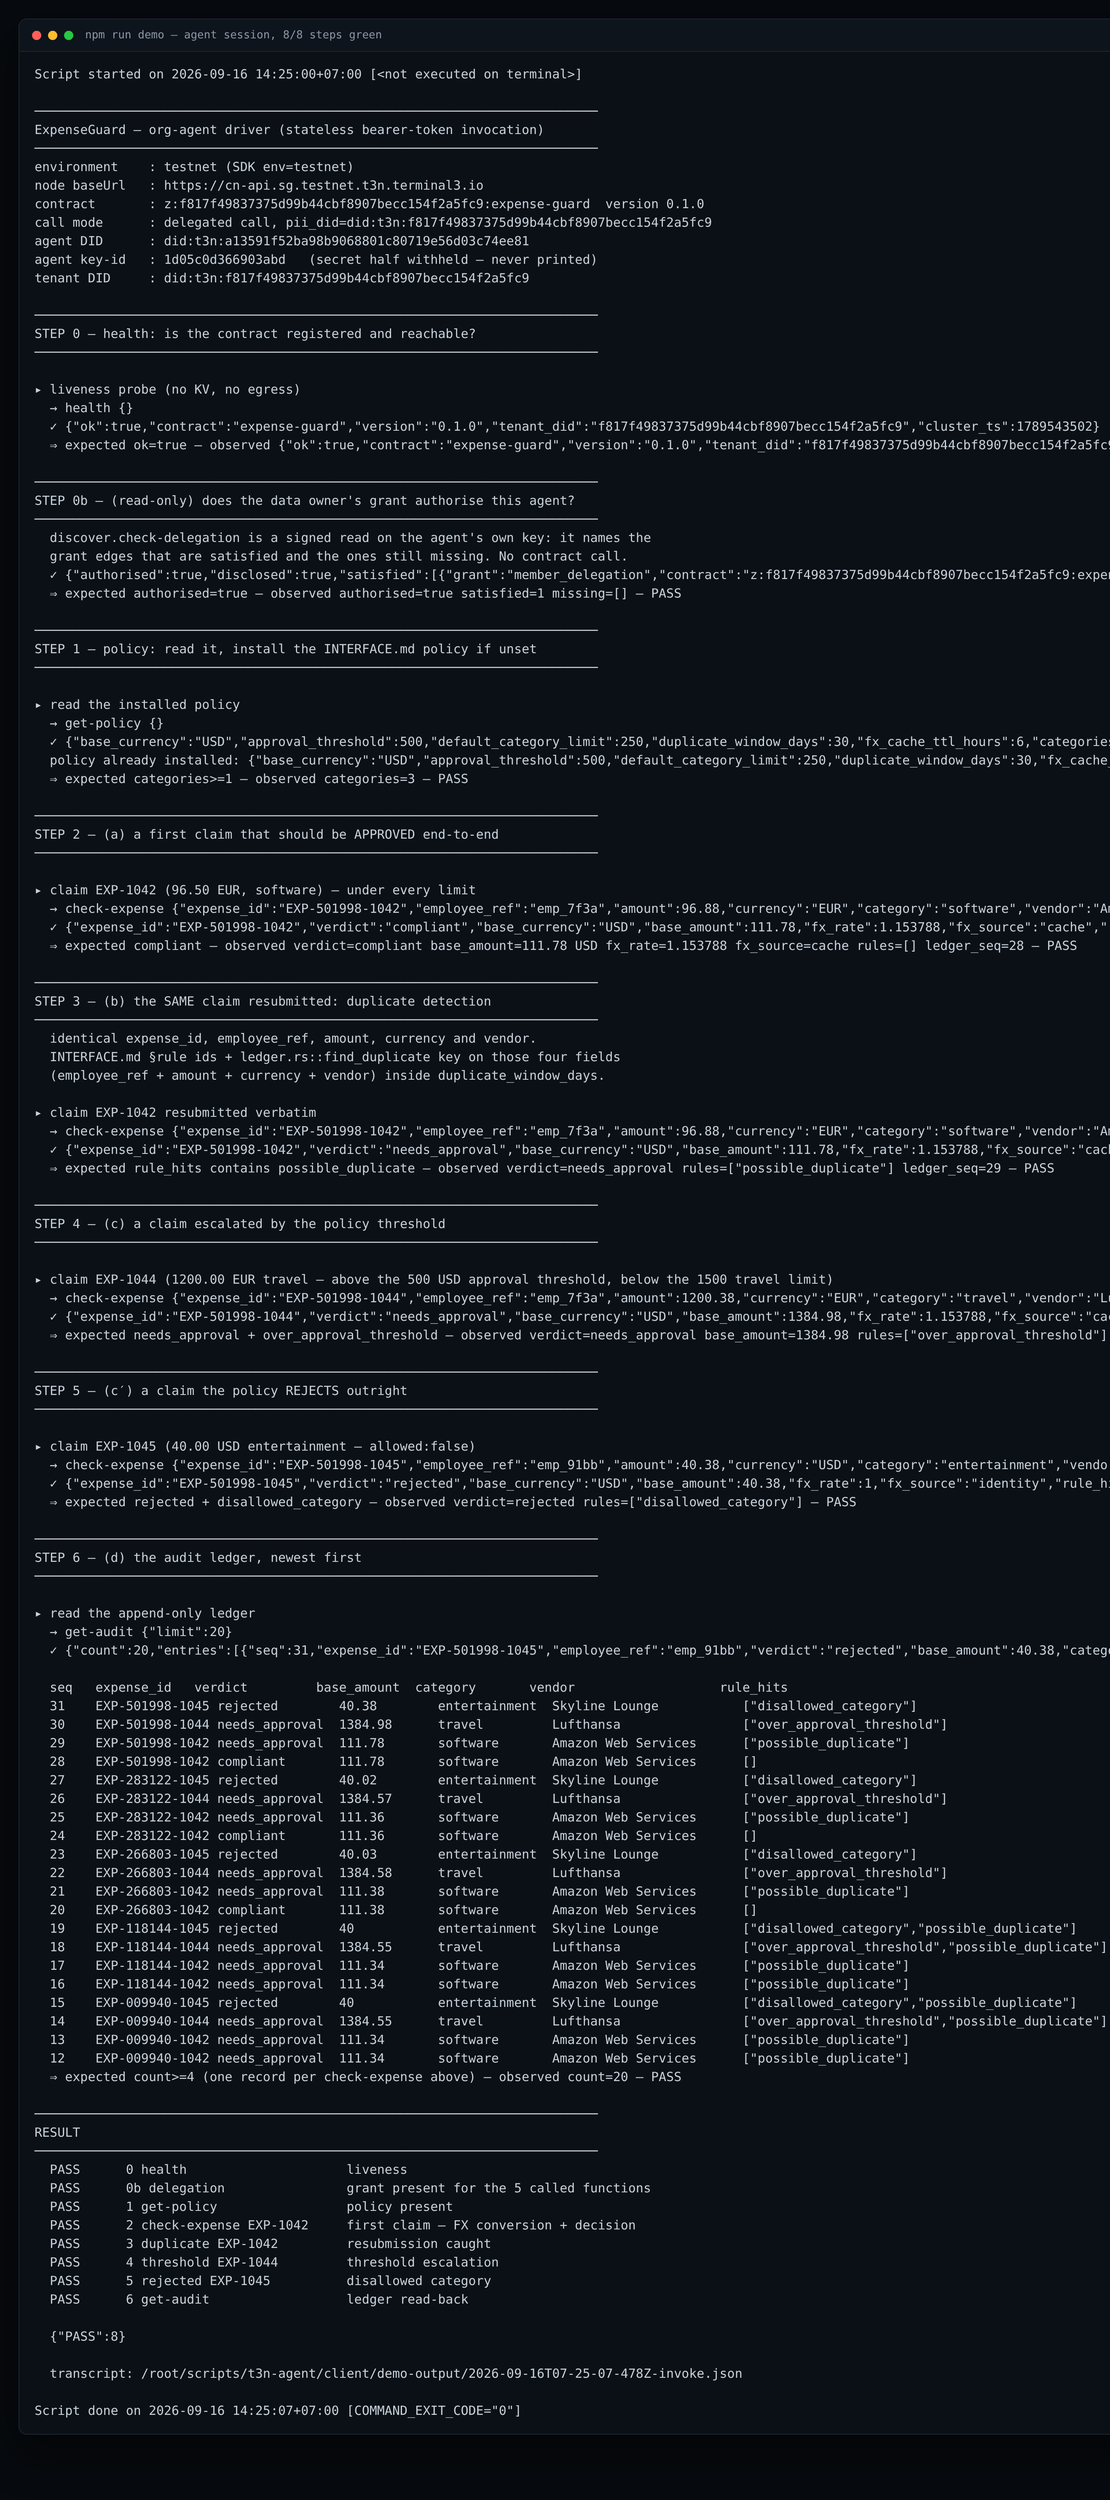
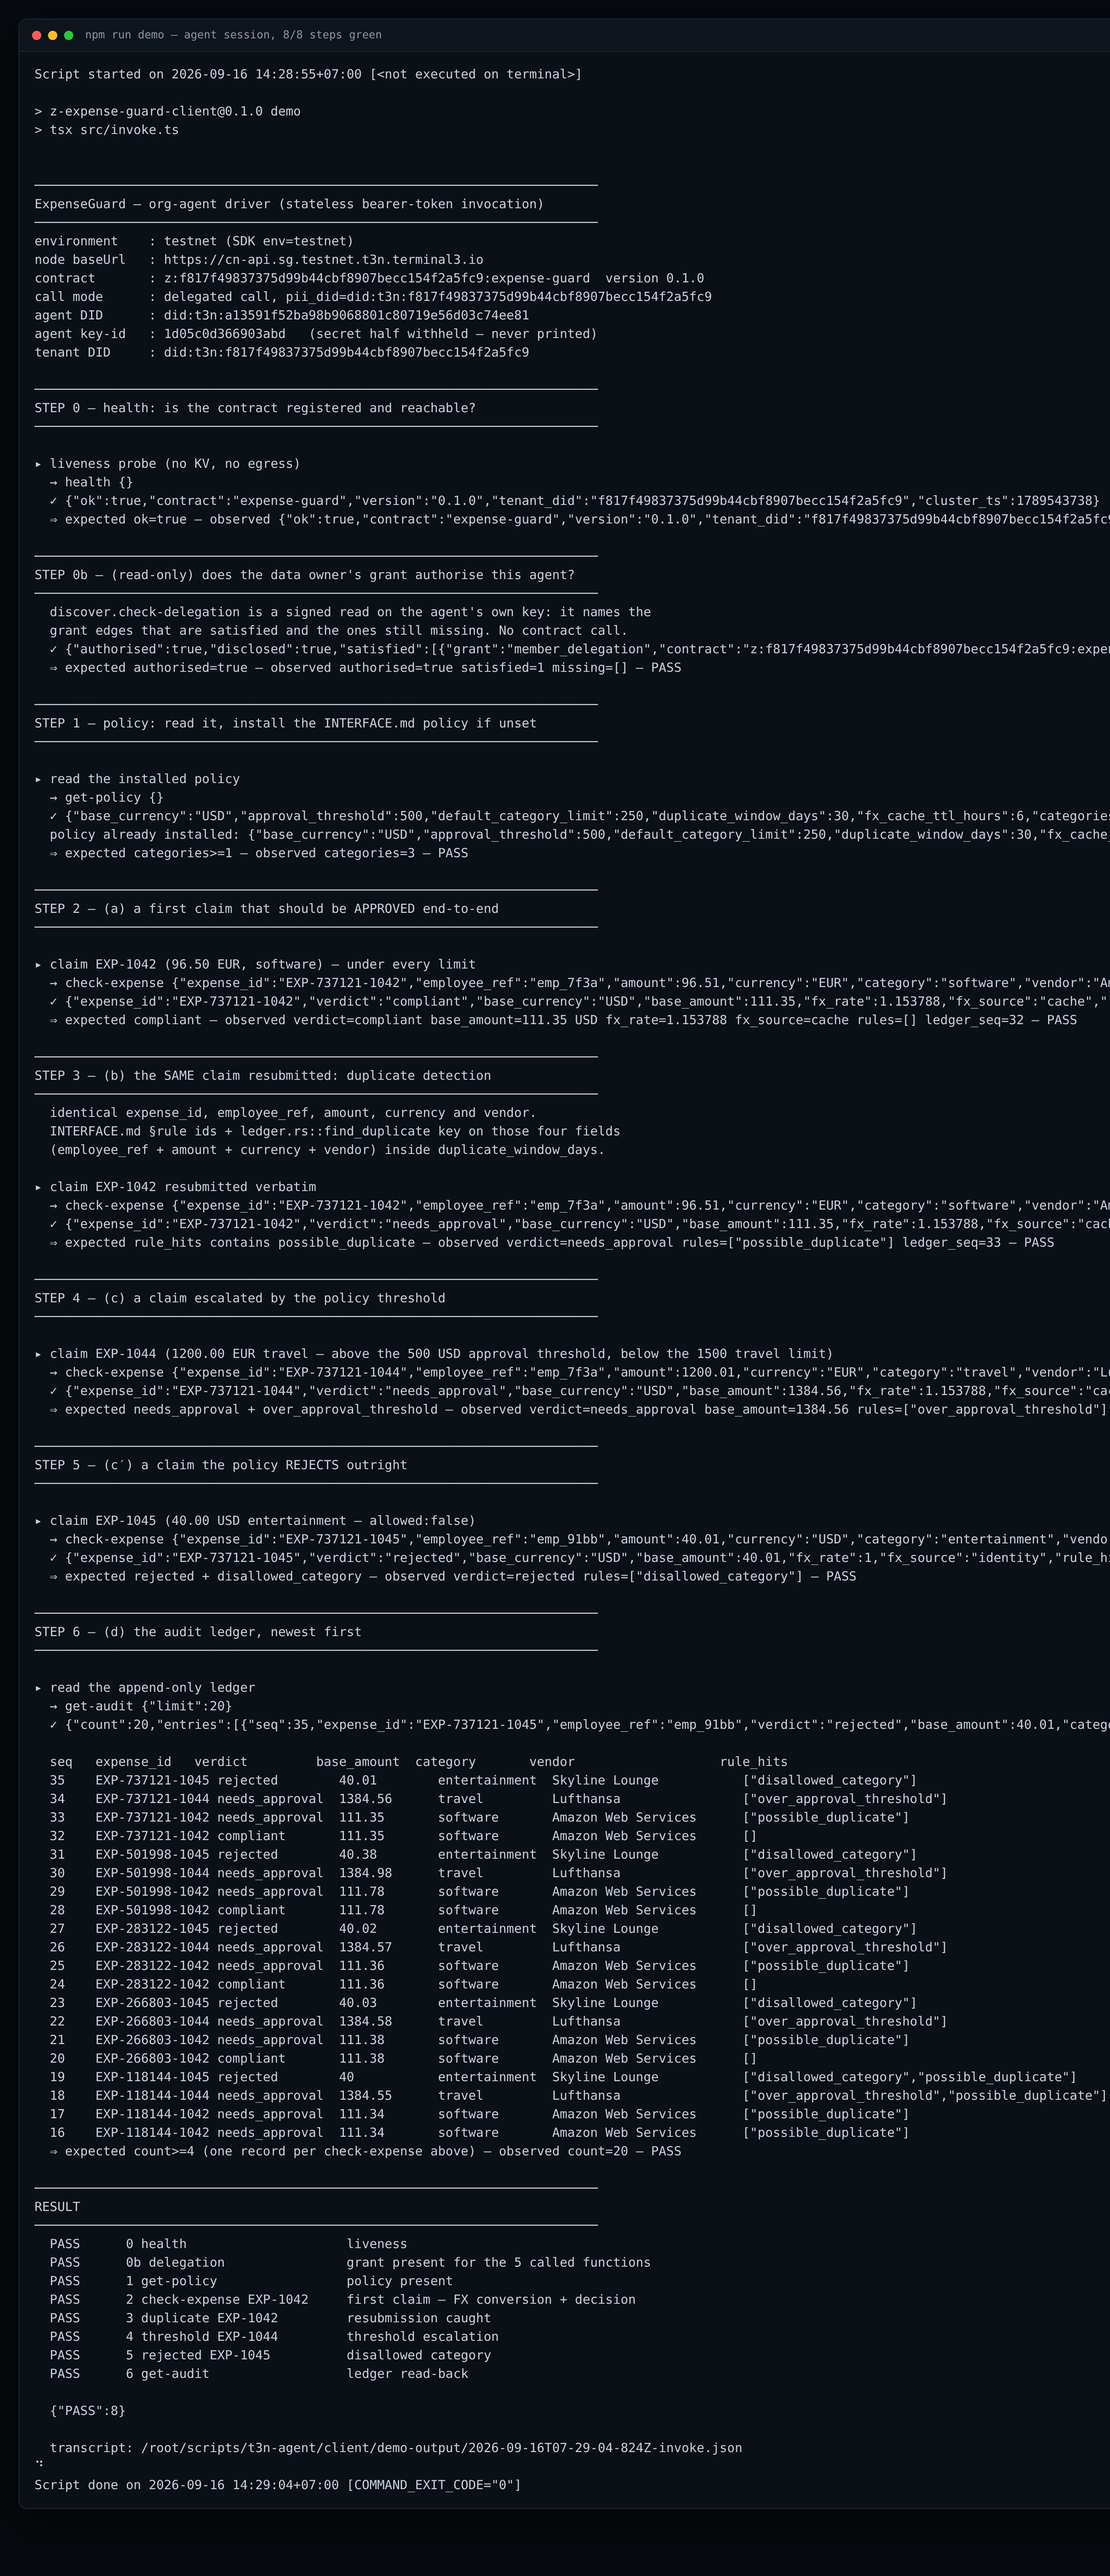
Point every npm script at a file that exists
register/maps/delegate/demo all referenced src/0N-*.ts skeleton paths that were
never written, so the four commands the README, RUNBOOK and SUBMISSION tell a
reader to run all failed with MODULE_NOT_FOUND. Repointed to deploy.ts, grant.ts
and invoke.ts, folded the maps step into register (deploy.ts creates them), and
added the seed entry point for the idempotent secrets-row path. Verified each
target exists and ran npm run seed (exit 0, row already correct, read back).

demo.png is re-rendered from a fresh capture of npm run demo itself — the command
the docs cite — and that run is the third consecutive 8/8.

diff --git a/README.md b/README.md
@@ -98,14 +98,17 @@ cargo build --target wasm32-wasip2 --release      # -> target/wasm32-wasip2/rele
 cd client
 cp .env.example .env && $EDITOR .env              # three keys + webhook URL
 npm install
-npm run doctor                                    # env, SDK version, wasm presence
-npm run register                                  # uploads the wasm, records contract_id
-npm run maps                                      # policy/audit/fx/secrets maps + ACLs
-npm run delegate                                  # data owner scopes the agent
-npm run demo                                      # end-to-end: 3 claims, approval, ledger
+npm run doctor                                    # 21 preflight checks: env, SDK, wasm, hosts, PII_DID
+npm run register                                  # tenant: upload the wasm, create the 4 maps + ACLs,
+                                                  #         seed the policy and the secrets row
+npm run delegate                                  # data owner: scope the agent on 6 functions, 2 hosts
+npm run demo                                      # agent: 8 checks end to end, writes a transcript
 ```
 
-`npm run demo` prints one line per claim and writes the full transcript to
+`npm run seed` re-seeds only the `secrets` row on an already-deployed contract —
+idempotent, and the safe entry point once `register` has run.
+
+`npm run demo` prints one line per check and writes the full transcript to
 `client/demo-output/<timestamp>.json` for auditability and screenshots.
 
 ## Policy example

diff --git a/AGENTS.md b/AGENTS.md
@@ -25,10 +25,11 @@ wasm-tools component wit target/wasm32-wasip2/release/z_expense_guard.wasm   # i
 cd client
 npm ci
 cp .env.example .env && chmod 600 .env            # then fill in the credentials
-npm run doctor                                    # 19 preflight checks; stops at the first failure
-npm run register                                  # tenant: register, create maps, seed policy
-npm run delegate                                  # data owner: grant the agent its scope
-npm run demo                                      # agent: the expense flow + transcript
+npm run doctor                                    # 21 preflight checks; stops at the first failure
+npm run register                                  # tenant: register, create maps, seed policy + secrets
+npm run seed                                      # tenant: re-seed the secrets row only (idempotent)
+npm run delegate                                  # data owner: grant the agent its scope (6 functions)
+npm run demo                                      # agent: the expense flow + transcript (8 checks)
 npm run typecheck                                 # tsc --noEmit
 ```
 

diff --git a/CLAUDE.md b/CLAUDE.md
@@ -25,10 +25,11 @@ wasm-tools component wit target/wasm32-wasip2/release/z_expense_guard.wasm   # i
 cd client
 npm ci
 cp .env.example .env && chmod 600 .env            # then fill in the credentials
-npm run doctor                                    # 19 preflight checks; stops at the first failure
-npm run register                                  # tenant: register, create maps, seed policy
-npm run delegate                                  # data owner: grant the agent its scope
-npm run demo                                      # agent: the expense flow + transcript
+npm run doctor                                    # 21 preflight checks; stops at the first failure
+npm run register                                  # tenant: register, create maps, seed policy + secrets
+npm run seed                                      # tenant: re-seed the secrets row only (idempotent)
+npm run delegate                                  # data owner: grant the agent its scope (6 functions)
+npm run demo                                      # agent: the expense flow + transcript (8 checks)
 npm run typecheck                                 # tsc --noEmit
 ```
 

diff --git a/docs/RUNBOOK.md b/docs/RUNBOOK.md
@@ -110,7 +110,8 @@ identity — run them in order:
 
 ```bash
 cd client
-npm run register    # tenant: register the wasm, create 4 maps, seed the policy
+npm run register    # tenant: register the wasm, create 4 maps, seed policy + secrets row
+npm run seed        # tenant: re-seed just the secrets row (idempotent; existing deployments)
 npm run delegate    # data owner: grant the agent 6 functions on 1 contract, 2 hosts
 npm run demo        # agent: the expense flow; writes a transcript
 ```
